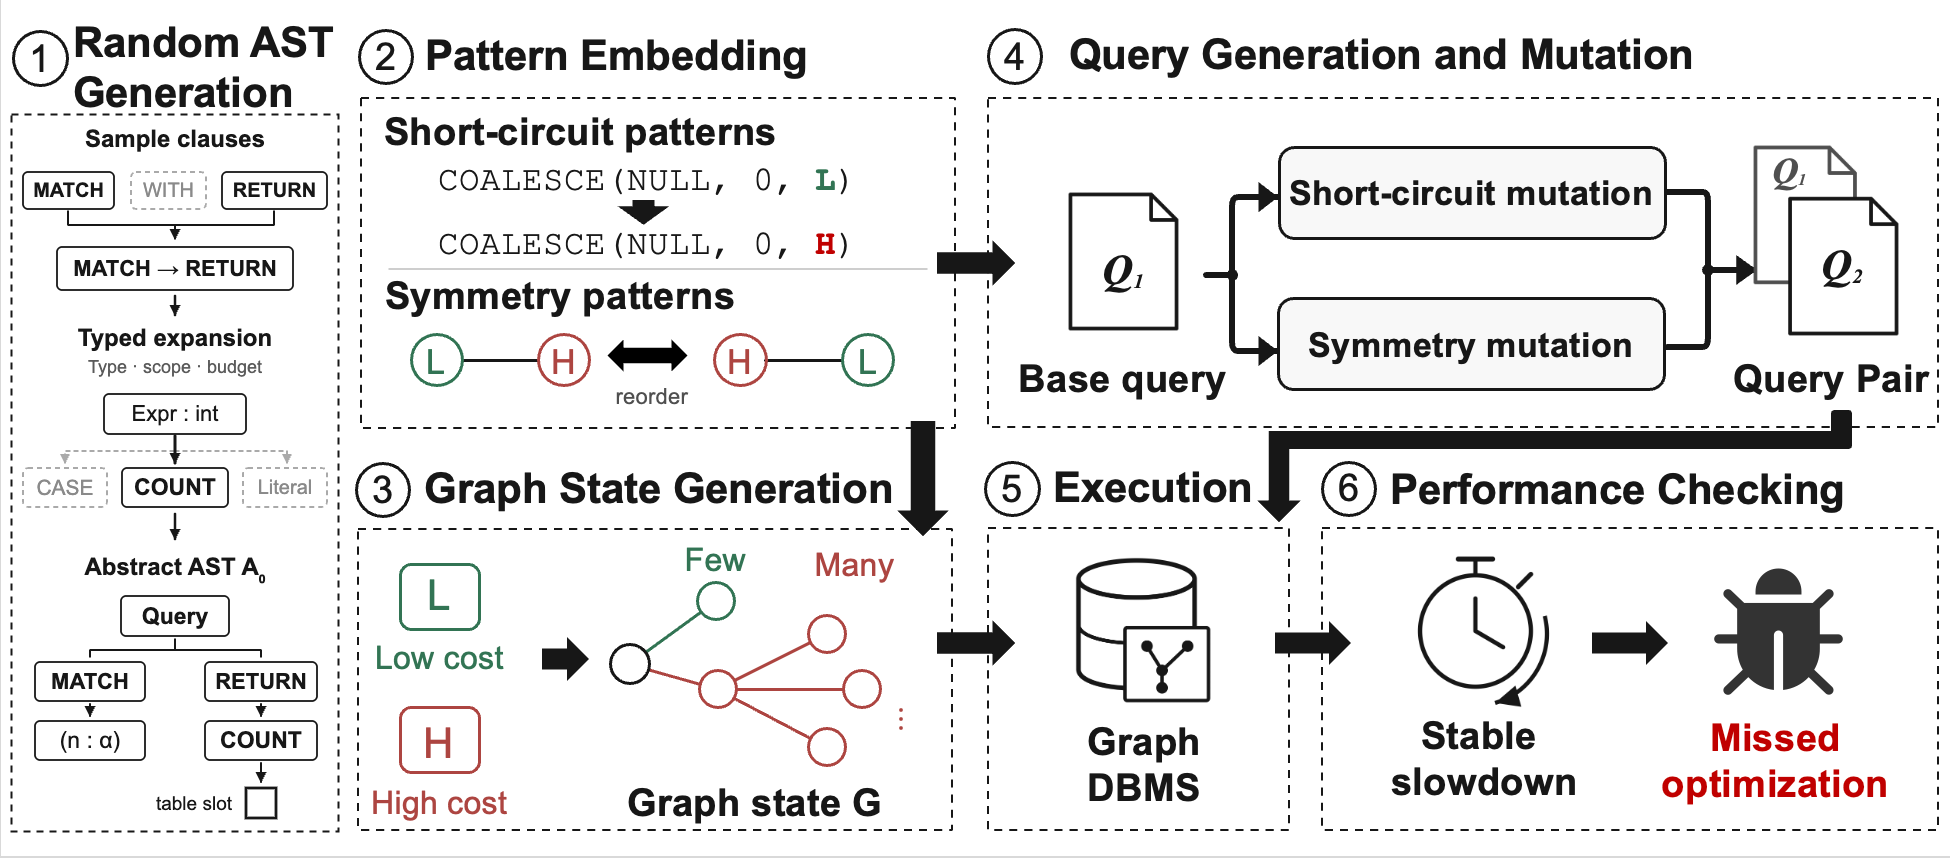
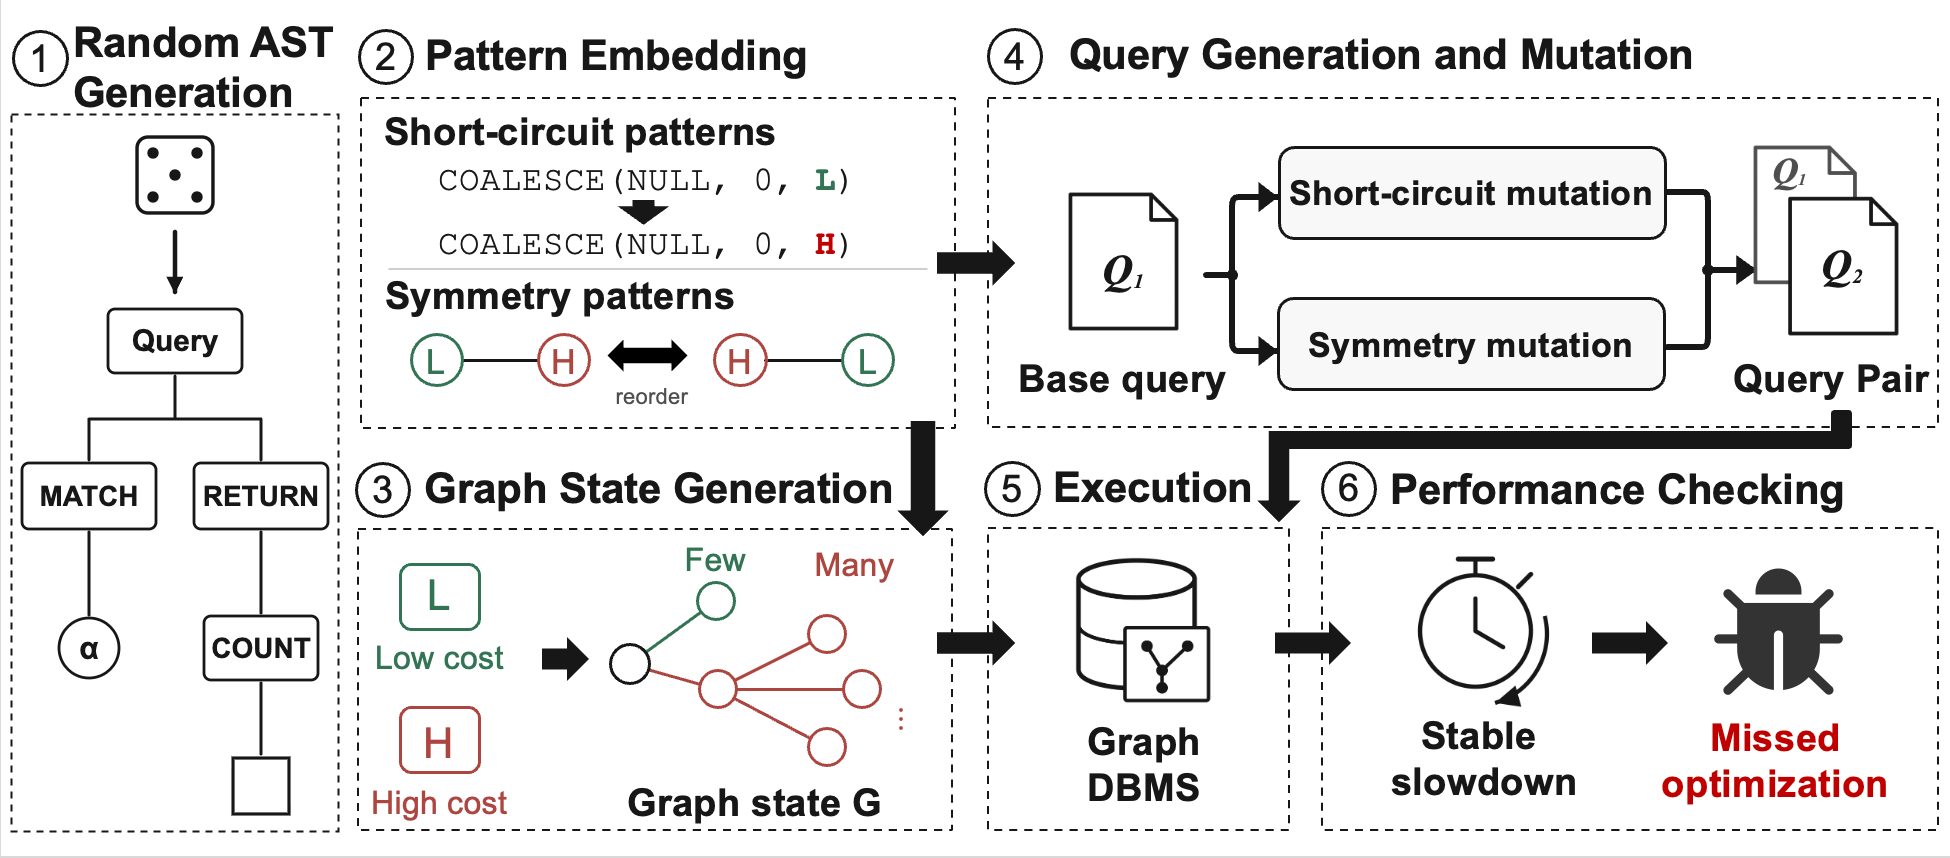
Simplify the AST panel to a random symbol and a large tree

Changed region(s): [[0.0, 0.1515, 0.1846, 0.9697]]

diff --git a/picture/generate_random_ast_panel.py b/picture/generate_random_ast_panel.py
@@ -15,8 +15,6 @@ from xml.etree import ElementTree
 
 ROOT = Path(__file__).resolve().parent
 INK = '#171717'
-GRAY = '#8A8A8A'
-LINE = '#AAAAAA'
 FONT = 'Arial,Helvetica,sans-serif'
 
 
@@ -24,77 +22,54 @@ def draw_panel():
     parts = [
         '<svg xmlns="http://www.w3.org/2000/svg" width="330" height="720" '
         'viewBox="0 0 330 720" role="img" aria-labelledby="panel-title panel-desc">',
-        '<title id="panel-title">Random typed AST generation: clauses, expansion and an abstract query</title>',
-        '<desc id="panel-desc">One example samples MATCH then RETURN, selects COUNT from integer '
-        'productions, and forms a Query AST with an unbound label alpha and exactly one typed '
-        'result-table slot for later Pattern embedding. Gray dashed productions are alternatives.</desc>',
+        '<title id="panel-title">Random AST generation: a random choice and one large query AST</title>',
+        '<desc id="panel-desc">A dice symbol represents random generation. A large query AST '
+        'contains MATCH and RETURN, with COUNT and unbound terminal leaves. No Pattern or '
+        'concrete graph is introduced.</desc>',
         '<defs><marker id="m1-arrow" viewBox="0 0 10 10" refX="9" refY="5" '
-        'markerWidth="11" markerHeight="11" markerUnits="userSpaceOnUse" orient="auto">'
-        f'<path d="M0 0L10 5L0 10Z" fill="{INK}"/></marker>'
-        '<marker id="m1-gray-arrow" viewBox="0 0 10 10" refX="9" refY="5" '
-        'markerWidth="10" markerHeight="10" markerUnits="userSpaceOnUse" orient="auto">'
-        f'<path d="M0 0L10 5L0 10Z" fill="{LINE}"/></marker></defs>',
+        'markerWidth="17" markerHeight="17" markerUnits="userSpaceOnUse" orient="auto">'
+        f'<path d="M0 0L10 5L0 10Z" fill="{INK}"/></marker></defs>',
         '<rect width="330" height="720" fill="white"/>',
         f'<rect x="1.5" y="1.5" width="327" height="717" fill="none" '
         f'stroke="{INK}" stroke-width="1.8" stroke-dasharray="7 6"/>',
     ]
 
-    def text(x, y, value, size=22, color=INK, bold=False, anchor='middle'):
+    def text(x, y, value, size=28):
         parts.append(f'<text x="{x}" y="{y}" font-family="{FONT}" font-size="{size}" '
-                     f'fill="{color}" font-weight="{700 if bold else 400}" '
-                     f'text-anchor="{anchor}">{escape(value)}</text>')
+                     f'fill="{INK}" font-weight="700" text-anchor="middle">{escape(value)}</text>')
 
-    def path(data, *, chosen=True, arrow=False, width=2):
-        parts.append(f'<path d="{data}" fill="none" stroke="{INK if chosen else LINE}" '
-                     f'stroke-width="{width}" stroke-linejoin="round" stroke-linecap="round"'
-                     + ('' if chosen else ' stroke-dasharray="4 4"')
-                     + (f' marker-end="url(#{"m1-arrow" if chosen else "m1-gray-arrow"})"' if arrow else '')
-                     + '/>')
+    def path(data, *, arrow=False, width=3):
+        parts.append(f'<path d="{data}" fill="none" stroke="{INK}" stroke-width="{width}" '
+                     'stroke-linejoin="round" stroke-linecap="round"'
+                     + (' marker-end="url(#m1-arrow)"' if arrow else '') + '/>')
 
-    def box(x, y, width, height, label, *, chosen=True, size=22, bold=False):
+    def box(x, y, width, height, label, size=28):
         parts.append(f'<rect x="{x}" y="{y}" width="{width}" height="{height}" '
-                     f'rx="5" fill="white" stroke="{INK if chosen else LINE}" stroke-width="1.8"'
-                     + ('' if chosen else ' stroke-dasharray="5 4"') + '/>')
-        text(x + width / 2, y + height / 2 + size * .34, label, size,
-             INK if chosen else GRAY, bold)
+                     f'rx="7" fill="white" stroke="{INK}" stroke-width="2.8"/>')
+        text(x + width / 2, y + height / 2 + size * .34, label, size)
 
-    # Selected clause primitives are solid, the unselected WITH is dashed.
-    text(165, 34, 'Sample clauses', 24, bold=True)
-    box(13, 59, 91, 37, 'MATCH', size=20, bold=True)
-    box(121, 59, 75, 37, 'WITH', chosen=False, size=20)
-    box(212, 59, 105, 37, 'RETURN', size=20, bold=True)
-    path('M58 98V112H165V126', arrow=True)
-    path('M264 98V112H165')
-    box(47, 134, 236, 43, 'MATCH → RETURN', size=22, bold=True)
-    path('M165 183V202', arrow=True, width=2.5)
+    # Randomness is a single visual symbol, rather than another text workflow.
+    parts.append(f'<rect x="127" y="24" width="76" height="76" rx="11" '
+                 f'fill="white" stroke="{INK}" stroke-width="3.5"/>')
+    for x, y in ((143, 40), (187, 40), (165, 62), (143, 84), (187, 84)):
+        parts.append(f'<circle cx="{x}" cy="{y}" r="5.7" fill="{INK}"/>')
+    path('M165 119V179', arrow=True, width=4.5)
 
-    # Expected integer type limits the operator alternatives.
-    text(165, 233, 'Typed expansion', 24, bold=True)
-    text(165, 260, 'Type · scope · budget', 18, color='#5B5B5B')
-    box(94, 281, 142, 40, 'Expr : int', size=22)
-    path('M165 323V338H55V350', chosen=False, arrow=True)
-    path('M165 338H277V350', chosen=False, arrow=True)
-    path('M165 323V350', arrow=True, width=3)
-    box(13, 355, 84, 39, 'CASE', chosen=False, size=21)
-    box(112, 355, 106, 39, 'COUNT', size=23, bold=True)
-    box(233, 355, 84, 39, 'Literal', chosen=False, size=20)
-    path('M165 401V426', arrow=True, width=2.5)
-
-    # One complete abstract structure: operators fixed, graph terminals unbound.
-    text(165, 462, 'Abstract AST A₀', 24, bold=True)
-    box(111, 483, 108, 40, 'Query', size=23, bold=True)
-    path('M165 526V537H80V544')
-    path('M165 537H251V544')
-    box(25, 549, 110, 39, 'MATCH', size=22, bold=True)
-    box(195, 549, 112, 39, 'RETURN', size=22, bold=True)
-    path('M80 591V603', arrow=True)
-    path('M251 591V603', arrow=True)
-    box(25, 608, 110, 39, '(n : α)', size=23)
-    box(195, 608, 112, 39, 'COUNT', size=23, bold=True)
-    path('M251 650V669', arrow=True)
-    parts.append(f'<rect x="236" y="675" width="30" height="30" fill="white" '
+    # One large AST occupies the remaining panel. Only operator names remain.
+    box(98, 196, 134, 64, 'Query', 30)
+    path('M165 263V306H79V347')
+    path('M165 306H251V347')
+    box(12, 350, 134, 66, 'MATCH')
+    box(184, 350, 134, 66, 'RETURN')
+    path('M79 419V502')
+    path('M251 419V500')
+    parts.append(f'<circle cx="79" cy="535" r="30" fill="white" '
                  f'stroke="{INK}" stroke-width="2.8"/>')
-    text(222, 697, 'table slot', 19, anchor='end')
+    text(79, 546, 'α', 32)
+    box(194, 503, 114, 64, 'COUNT')
+    path('M251 570V641')
+    parts.append(f'<rect x="223" y="645" width="56" height="56" fill="white" '
+                 f'stroke="{INK}" stroke-width="3.2"/>')
     parts.append('</svg>')
     result = '\n'.join(parts) + '\n'
     ElementTree.fromstring(result)

diff --git a/picture/Random_AST_Generation_panel_design.md b/picture/Random_AST_Generation_panel_design.md
@@ -1,44 +1,11 @@
-# Random AST Generation 红框区域设计
+# Random AST Generation 极简版
 
-## 推荐的三层结构
+图中只保留“骰子 → 一棵大 AST”，用骰子表达随机性，用树形结构表达生成结果。
 
-这一区域采用“子句采样 → 类型驱动展开 → 抽象 AST”的纵向过程。选择分支用来表达随机性，最终 AST 用来表达生成产物。
+树上仅保留 Query、MATCH、RETURN、COUNT 四个操作符名称。α 与空叶节点保留抽象结构；不再展示候选列表、类型规则或分阶段说明。
 
-1. **Sample clauses：采样子句骨架。** 以 MATCH、WITH、RETURN 为示例候选，本次选择 MATCH 和 RETURN，形成 `MATCH → RETURN`。候选是子句产生式，不是保存好的完整查询。
-2. **Typed expansion：按类型选择表达式结构。** 返回位置需要整数，因此展示 CASE、COUNT、Literal 等合法形式。本次选择 COUNT，其他形式保留为灰色虚线。类型、变量作用域和预算共同筛选允许的选择。
-3. **Abstract AST A₀：输出带接口的抽象 AST。** 根节点 Query 分别连接 MATCH 与 RETURN。MATCH 中标签 α 尚未具体绑定；RETURN 通过 COUNT 消费一个待填充的结果表接口。
+- [可编辑 SVG](Random_AST_Generation_panel.svg)
+- [局部 PNG](Random_AST_Generation_panel.png)
+- [回填原图预览](Overview_AST_panel_preview.png)
 
-图中仅展示少量候选和一次展开示例。当前实际生成语法还包含其他子句形式和表达式结构。
-
-## 视觉含义
-
-| 表示 | 含义 |
-|---|---|
-| 黑色实线和实框 | 本次选择与生成的结构 |
-| 灰色虚线和灰字 | 其他合法但本次未选择的结构 |
-| `Expr : int` | 当前表达式位置需要整数值 |
-| `(n : α)` | 节点变量 n 与尚未绑定的标签终端 α |
-| 底部空方框 | 唯一的结果表型 Pattern 插入口，由后续嵌入阶段填充 |
-
-COUNT 在这里只确定“统计后续子查询的结果行数”这一结构；具体子查询由 M2 嵌入。图中因此不放入 P3、S7 或具体图数据。
-
-## 在原图中的使用
-
-- [局部可编辑 SVG](Random_AST_Generation_panel.svg)：330 × 720，比例对应用户图中的窄长红框，文字和节点均为原生矢量元素。
-- [局部放大 PNG](Random_AST_Generation_panel.png)：660 × 1440，便于查看细节。
-- [放回原图的 PNG 预览](Overview_AST_panel_preview.png)：只替换用户标红的区域，便于比较布局。
-- [放回原图的 SVG 预览](Overview_AST_panel_preview.svg)：以用户原截图为背景，新增 M1 区域为矢量；背景截图不属于矢量重建。
-
-从最终 A₀ 向右侧 Pattern Embedding 连接输出箭头即可表达后续衔接。该预览只展示红框区域的设计，不调整原图其他阶段。
-
-重建局部 SVG：
-
-```bash
-.venv/bin/python picture/generate_random_ast_panel.py
-```
-
-使用同一张用户截图重建放置预览：
-
-```bash
-.venv/bin/python picture/generate_random_ast_panel.py --overview <1950x858的原始PNG路径>
-```
+SVG 的尺寸仍为330×720，可直接替换原红框。局部图为原生矢量；整体预览以用户截图为背景，仅替换第一部分。
